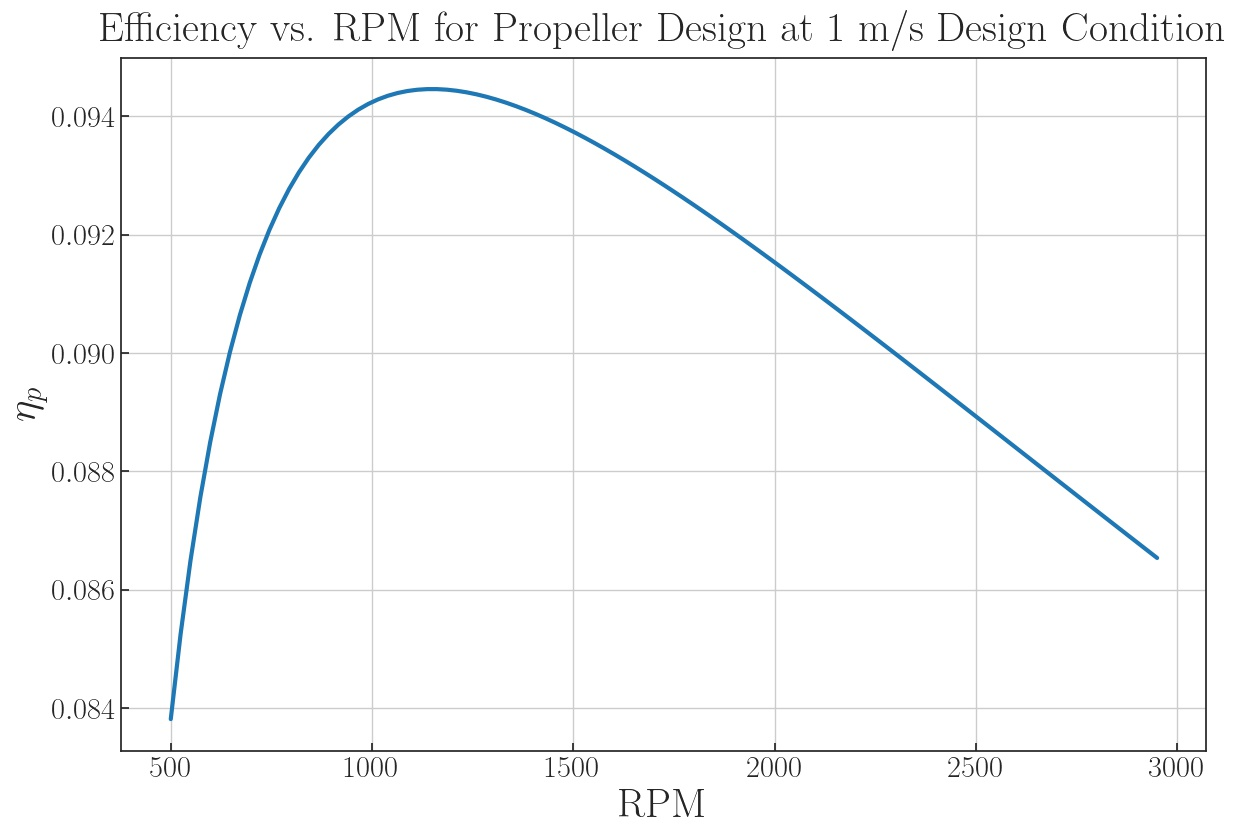
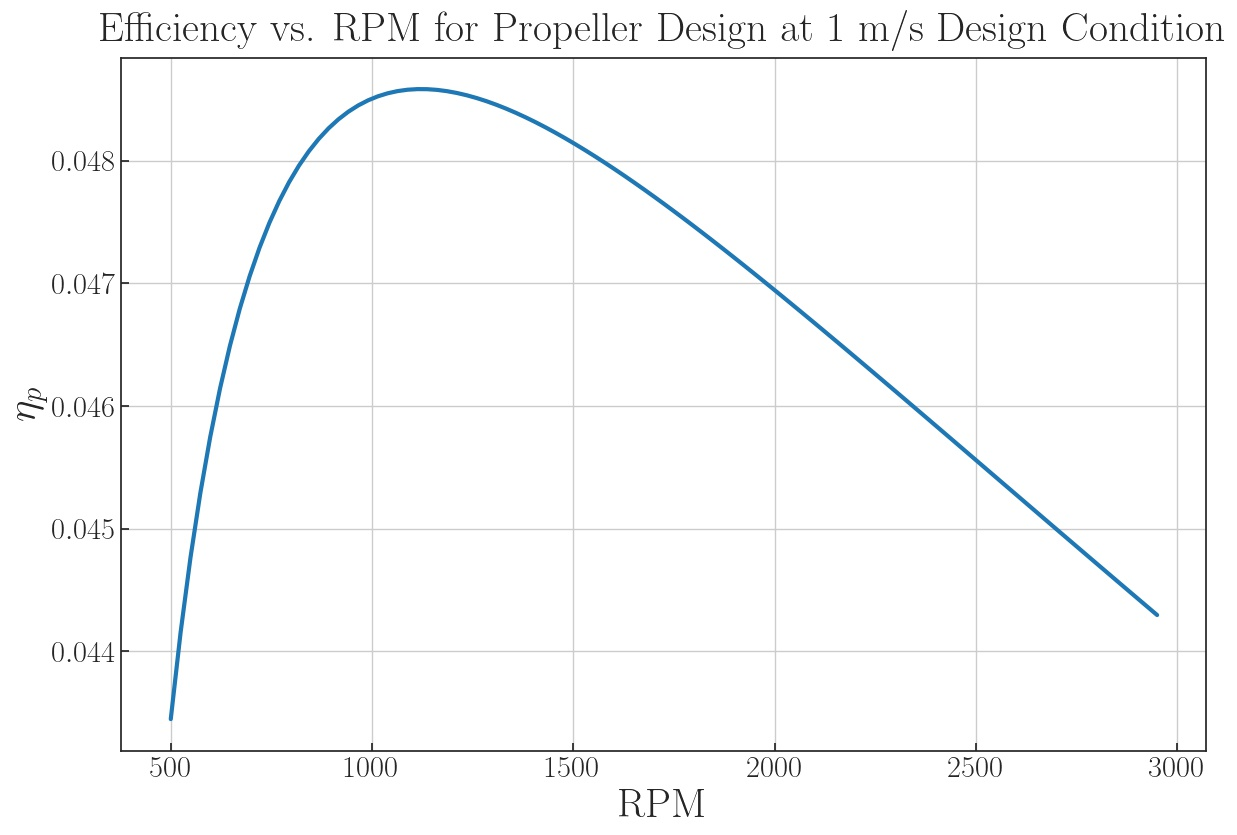
Commit

diff --git a/Python_Codes/prop_design_TVG.py b/Python_Codes/prop_design_TVG.py
@@ -228,7 +228,7 @@ if __name__ == "__main__":
     # plt.show()
 
 
-    v_inf = 2
+    v_inf = 1
     temp = 272.31667
     pres = 8.988e4
     dens = 1.112
